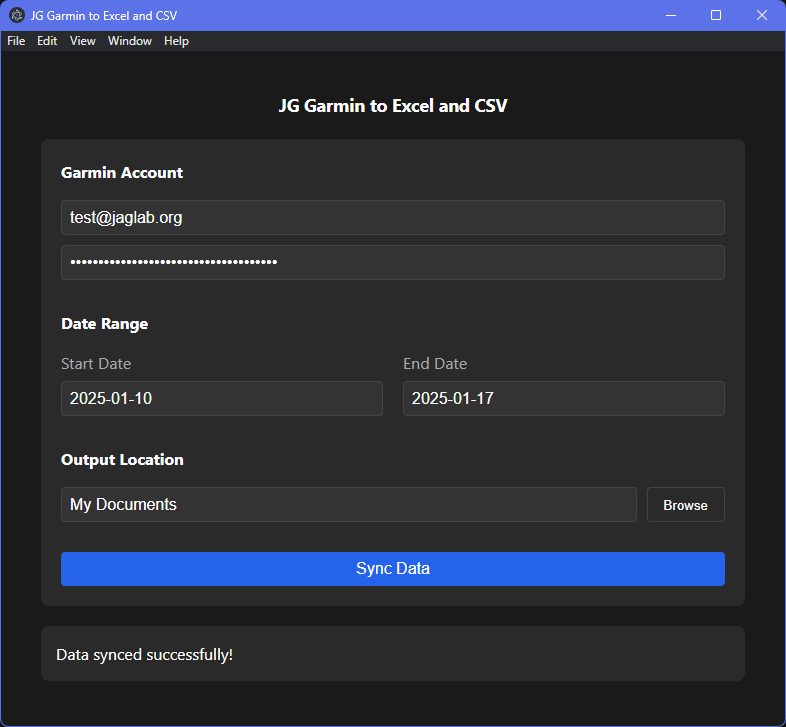
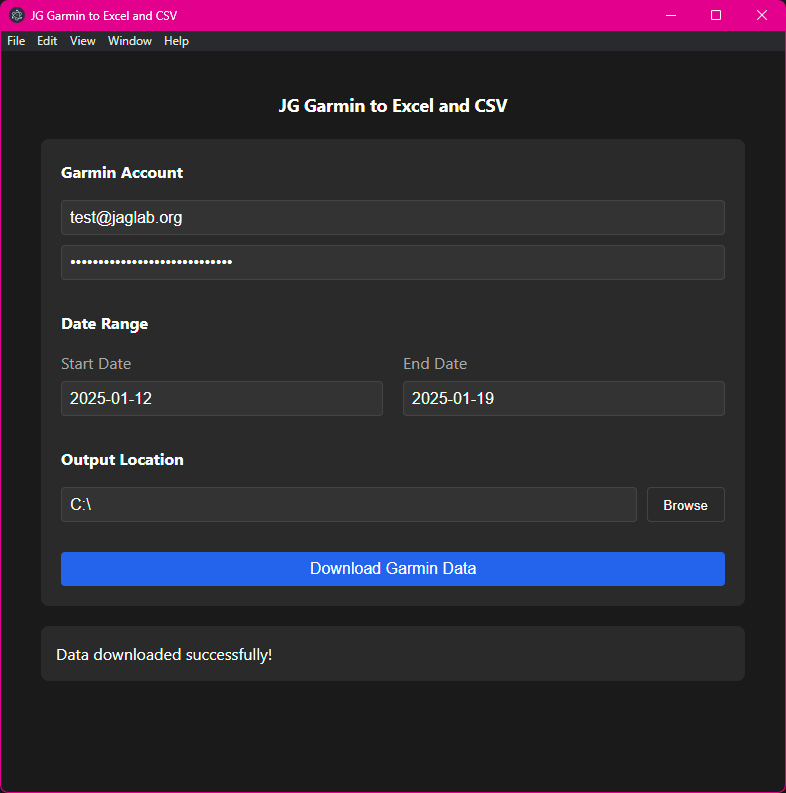
UI enhancements

diff --git a/frontend/src/js/app.js b/frontend/src/js/app.js
@@ -88,7 +88,7 @@ class App {
   
       console.log('Sending data:', data);
       const result = await window.api.syncData(data);
-      this.updateStatus('Data synced successfully!', 'success');
+      this.updateStatus('Data downloaded successfully!', 'success');
       
     } catch (error) {
       console.error('Sync error:', error);
@@ -122,7 +122,7 @@ class App {
 
   setLoading(isLoading) {
     this.syncButton.disabled = isLoading;
-    this.syncButton.textContent = isLoading ? 'Syncing...' : 'Sync Data';
+    this.syncButton.textContent = isLoading ? 'Downloading...' : 'Download Garmin Data';
     if (isLoading) {
       this.progressBar.show();
     } else {
